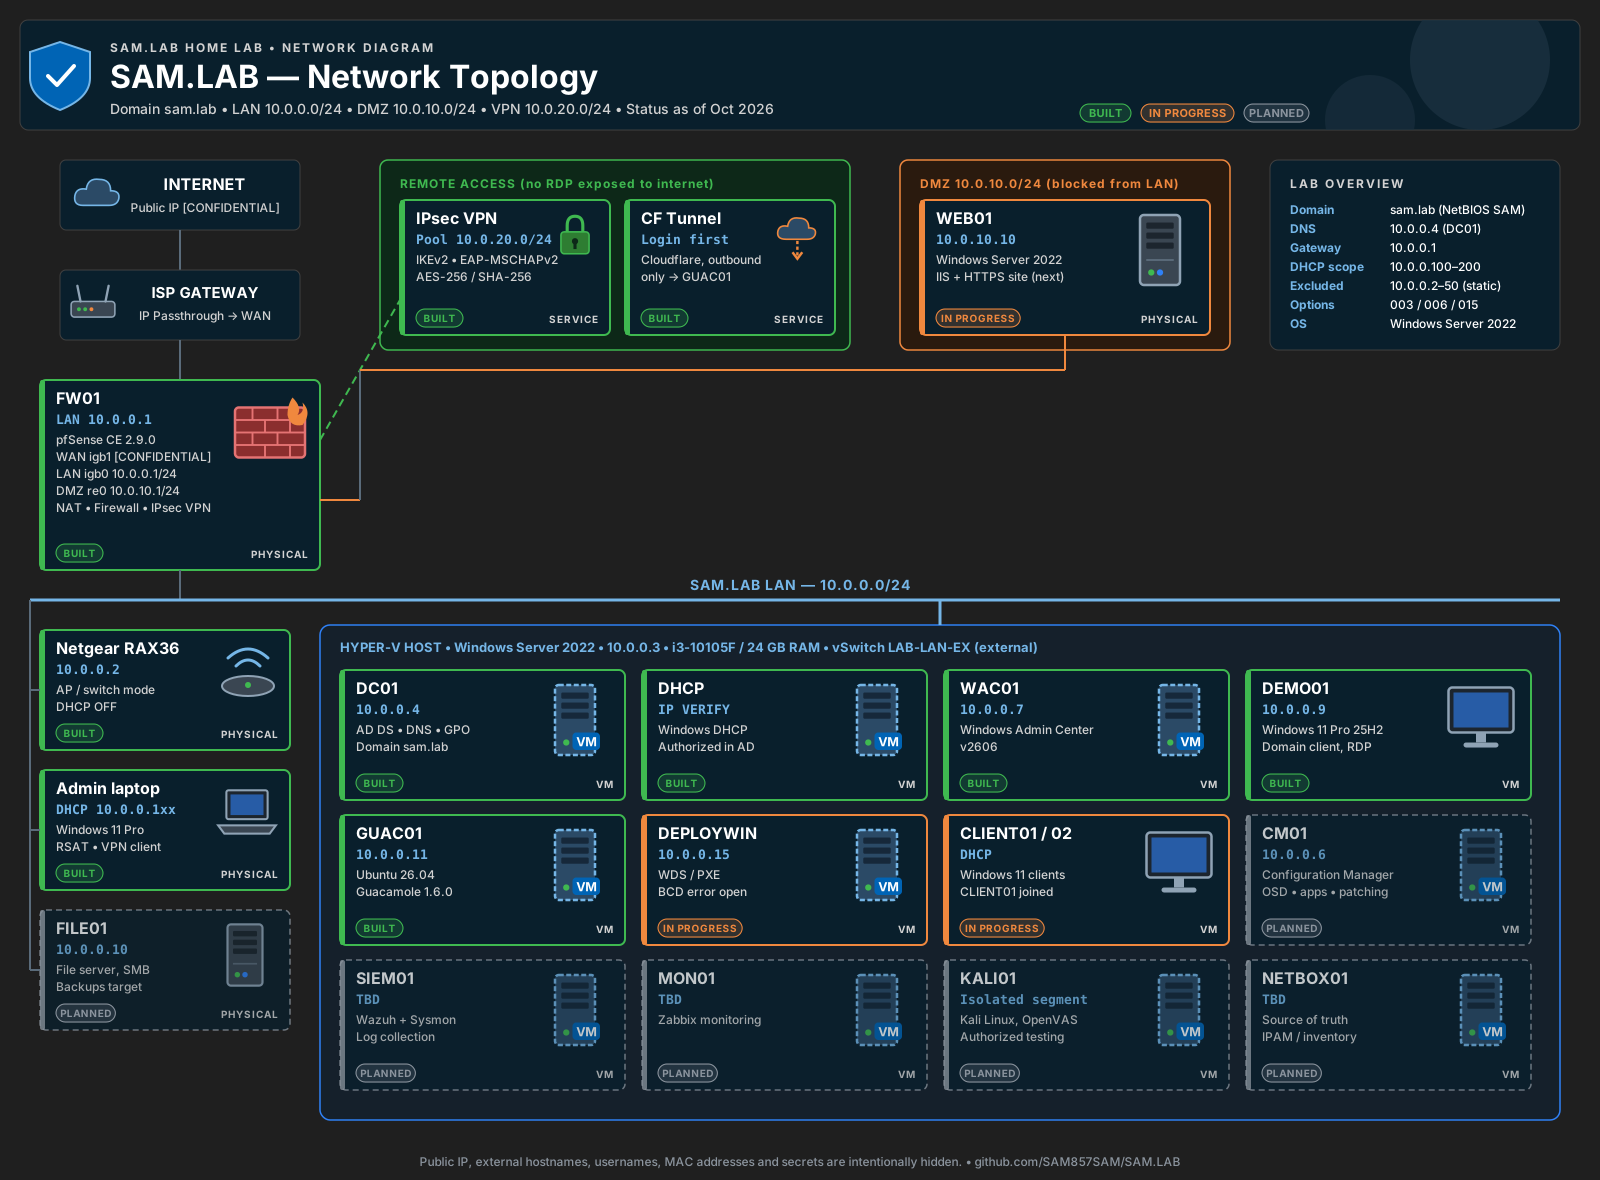
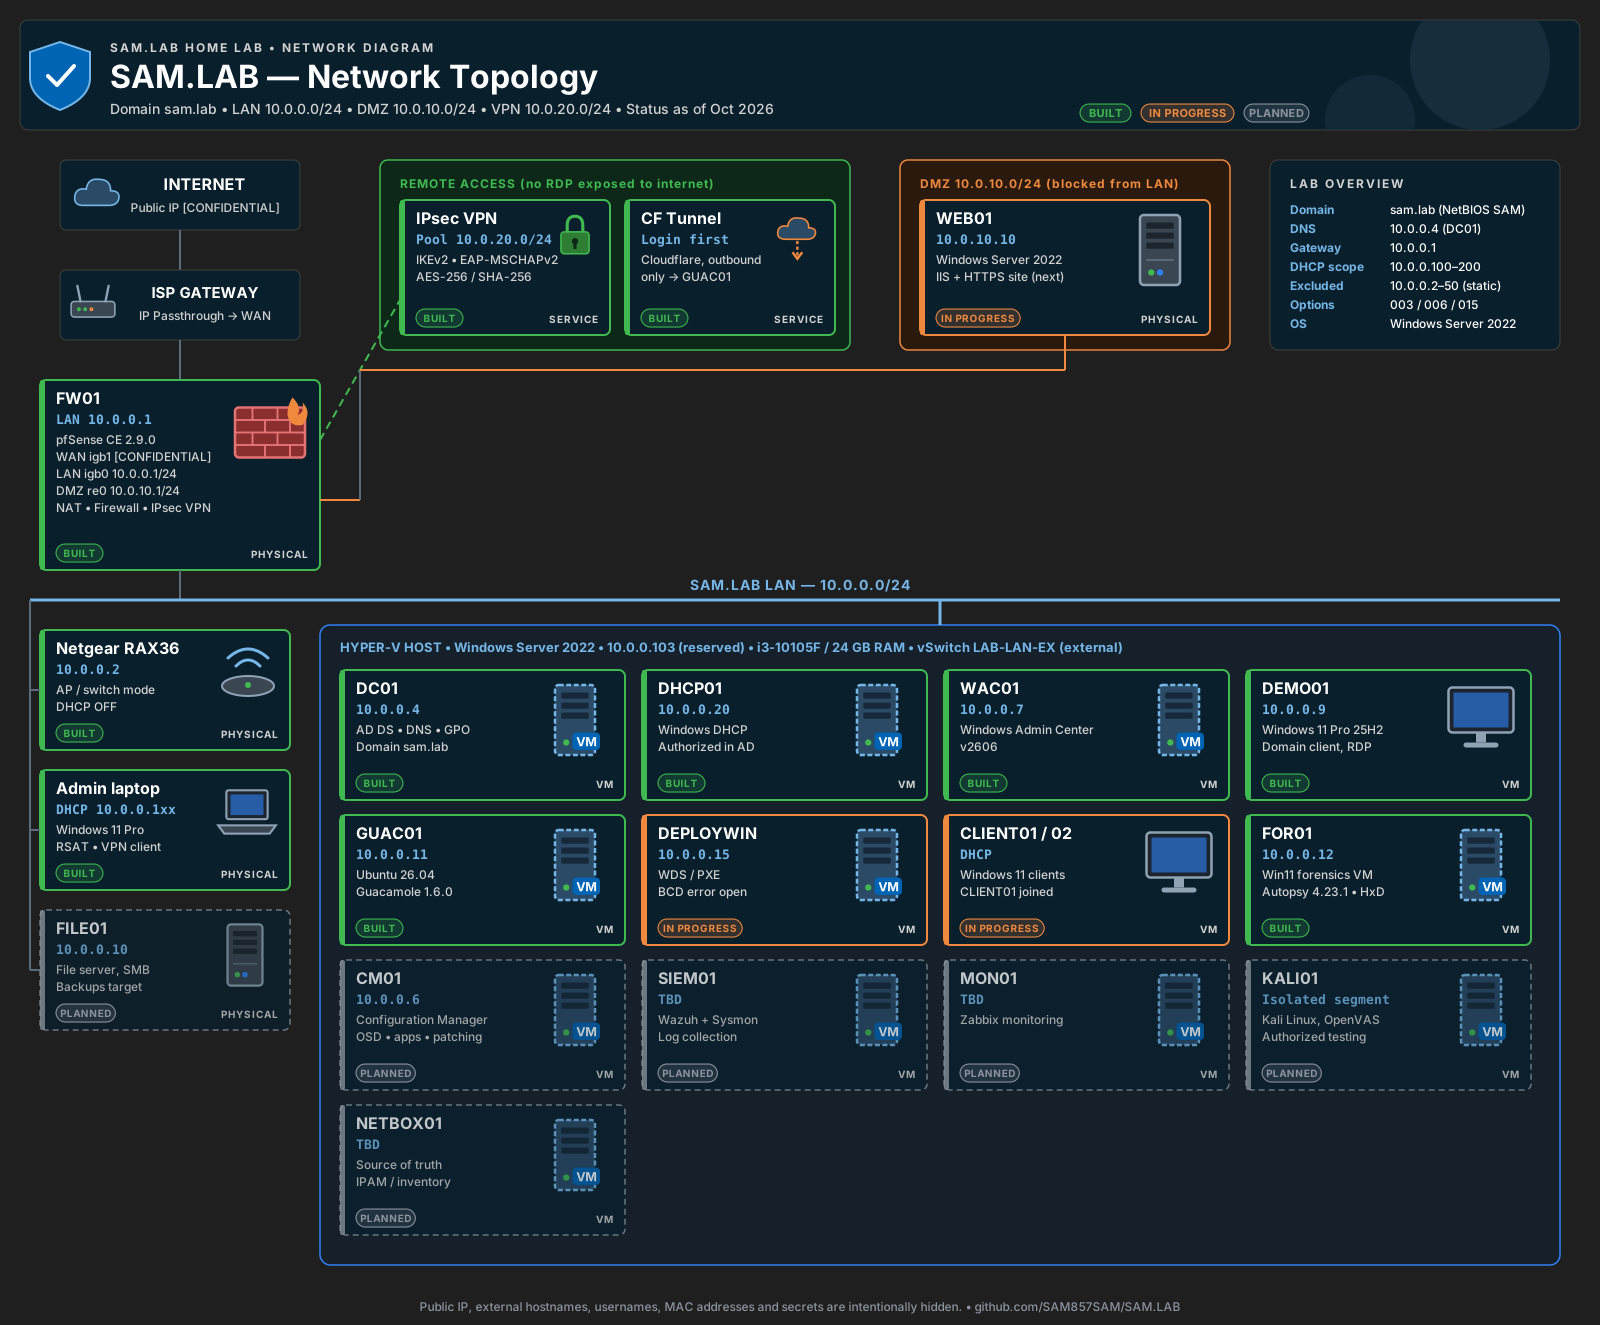
Autopsy built on FOR01; correct DHCP01 and Hyper-V host IPs
Claude-Session: https://claude.ai/code/session_01ML7nWH1uDmWBJZnaN8WGrw

Changed region(s): [[0.0, 0.2136, 0.9688, 1.0], [0.0, 0.0305, 0.9688, 0.3051], [0.4375, 0.8542, 0.4688, 0.8847]]

diff --git a/README.md b/README.md
@@ -27,7 +27,8 @@ Built by **Samual A. Michael** — CSCI student, studying for CCNA and CompTIA S
            │
   Netgear AP (switch mode) ── Hyper-V host
                                 ├─ DC01   (AD, DNS)
-                                ├─ DHCP   (Windows DHCP)
+                                ├─ DHCP01 (Windows DHCP)
+                                ├─ FOR01  (Autopsy forensics)
                                 ├─ DEPLOYWIN (WDS/PXE)
                                 ├─ WAC01  (Windows Admin Center)
                                 ├─ GUAC01 (Guacamole)
@@ -53,7 +54,8 @@ Built by **Samual A. Michael** — CSCI student, studying for CCNA and CompTIA S
 |---|---|---|---|
 | FW01 | 10.0.0.1 | pfSense 2.9.0 — firewall, NAT, DMZ, IPsec VPN | ✅ Built |
 | DC01 | 10.0.0.4 | AD DS, DNS, Group Policy (`sam.lab`) | ✅ Built |
-| DHCP | VERIFY | Windows DHCP, scope .100–.200 | ✅ Built |
+| DHCP01 | 10.0.0.20 | Windows DHCP, scope .100–.200 | ✅ Built |
+| FOR01 | 10.0.0.12 | Forensics VM — Autopsy 4.23.1, HxD | ✅ Built |
 | WAC01 | 10.0.0.7 | Windows Admin Center 2606 | ✅ Built |
 | DEMO01 | 10.0.0.9 | Windows 11 domain client | ✅ Built |
 | GUAC01 | 10.0.0.11 | Apache Guacamole 1.6.0 + Cloudflare Tunnel | ✅ Built |
@@ -84,17 +86,16 @@ Every guide ends with a **📋 Pending** checklist of what's not built yet.
 - [ ] **DMZ + WEB01 web server:** IIS, sample site, HTTPS, DMZ→LAN deny-all, LAN/VPN-only RDP
 - [ ] DEPLOYWIN: fix PXE BCD error 0xc000000f
 - [ ] GPO: fix wallpaper policy (Denied Security filtering)
-- [ ] Confirm DHCP server IP (conflict with AP at 10.0.0.2)
 - [ ] LAN move to 10.10.0.0/24
 - [ ] CM01 / SCCM
 - [ ] 50-policy AD security baseline (passwords, lockout, BitLocker, USB, auditing)
 - [ ] SOC: Sysmon, Wazuh, ELK, TheHive, Zabbix
-- [ ] Security tools: Kali, OpenVAS, Suricata, Autopsy
+- [ ] Security tools: Kali, OpenVAS, Suricata
 - [ ] RODC, FILE01 shares, ownCloud, NetBox
 
 ## Skills shown
 
-Windows Server 2022 · Hyper-V · Active Directory · DNS · DHCP · Group Policy · WDS/PXE · pfSense · NAT · DMZ segmentation · IKEv2/IPsec VPN · PKI (internal CA) · Zero-trust remote access (Cloudflare Tunnel + Access) · Linux (Ubuntu, LVM, building from source) · Tomcat / MariaDB · Troubleshooting & documentation
+Windows Server 2022 · Hyper-V · Digital forensics (Autopsy) · Active Directory · DNS · DHCP · Group Policy · WDS/PXE · pfSense · NAT · DMZ segmentation · IKEv2/IPsec VPN · PKI (internal CA) · Zero-trust remote access (Cloudflare Tunnel + Access) · Linux (Ubuntu, LVM, building from source) · Tomcat / MariaDB · Troubleshooting & documentation
 
 ## Certifications
 

diff --git a/docs/01-networking/dhcp.md b/docs/01-networking/dhcp.md
@@ -1,7 +1,7 @@
 # Windows DHCP Server — Step by Step
 
 **Goal:** One central DHCP server that gives clients the right IP, gateway, DNS, and domain.
-**Server:** `dhcp.sam.lab` (Windows Server 2022 VM, joined to `sam.lab`)
+**Server:** DHCP01 (`dhcp.sam.lab`) · 10.0.0.20 (Windows Server 2022 VM, joined to `sam.lab`)
 
 | Setting | Value |
 |---|---|
@@ -18,11 +18,11 @@
 ## Step 1 — Static IP on the DHCP server
 A DHCP server must never get its own address from DHCP.
 1. **Network Connections > Ethernet > Properties > IPv4**.
-2. IP `VERIFY` (screenshot shows 10.0.0.2), mask `255.255.255.0`, gateway `10.0.0.1`, DNS `10.0.0.4`.
+2. IP `10.0.0.20`, mask `255.255.255.0`, gateway `10.0.0.1`, DNS `10.0.0.4`.
 
 ![Static IP](../../screenshots/dhcp/01-static-ip.jpg)
 
-> ⚠ **Watch out:** The Netgear AP is also set to 10.0.0.2. Two devices with one IP = conflict. See Pending.
+> ⚠ **Watch out:** An early screenshot shows the server at 10.0.0.2, the same IP as the Netgear AP. Two devices with one IP = conflict. The server was moved to **10.0.0.20**.
 
 ## Step 2 — Install the role
 ```powershell
@@ -80,7 +80,6 @@ On the server: **Scope > Address Leases**.
 ![Leases](../../screenshots/dhcp/07-leases.jpg)
 
 ## 📋 Pending (not built yet)
-- [ ] **Confirm DHCP server IP** (10.0.0.2 vs .5 vs .20) and fix the conflict with the Netgear AP at 10.0.0.2
 - [ ] Rename server to `DHCP01` to match naming standard
 - [ ] DHCP reservations for printers / fixed clients
 - [ ] DHCP failover (second server, load balance)

diff --git a/docs/04-servers/hyper-v.md b/docs/04-servers/hyper-v.md
@@ -1,7 +1,7 @@
 # Hyper-V Host — Step by Step
 
 **Goal:** One physical server that runs all the lab VMs.
-**Host:** WIN-LU49EQ719FL · Windows Server 2022 · i3-10105F · 24 GB RAM · IP 10.0.0.3
+**Host:** WIN-LU49EQ719FL · Windows Server 2022 · i3-10105F · 24 GB RAM · IP 10.0.0.103 (DHCP reservation)
 
 | Virtual switch | Type | Use |
 |---|---|---|
@@ -11,7 +11,8 @@
 | VM | Gen | RAM | Role |
 |---|---|---|---|
 | DC01 | 2 | 4096 MB | AD DS, DNS |
-| DHCP | 2 | VERIFY | Windows DHCP |
+| DHCP01 | 2 | VERIFY | Windows DHCP (10.0.0.20) |
+| FOR01 | 2 | 6 GB, 4 vCPU | Forensics — Autopsy 4.23.1 (10.0.0.12) |
 | DEPLOYWIN | 2 | 4096 MB | WDS / PXE |
 | DEMO01 | 2 | 6000 MB | Windows 11 test client |
 | CLIENT01 / CLIENT02 | 2 | 4096 MB | Windows 11 clients |
@@ -76,7 +77,7 @@ Get-VMNetworkAdapter -VMName * | Select VMName, SwitchName
 ```
 
 ## 📋 Pending (not built yet)
-- [ ] Set Hyper-V host to a static IP (10.0.0.3) — VERIFY
+- [ ] Set Hyper-V host to static IP 10.0.0.3 (now DHCP reservation 10.0.0.103)
 - [ ] VM checkpoints before big changes (naming standard)
 - [ ] VM backups (Windows Server Backup or Veeam Community)
 - [ ] Hyper-V Replica or export schedule
